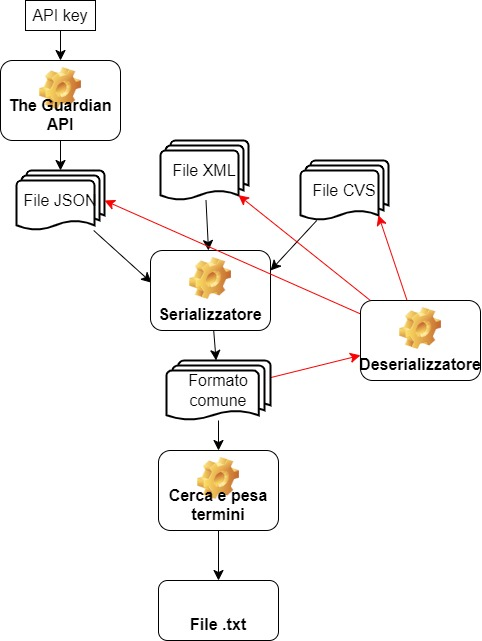
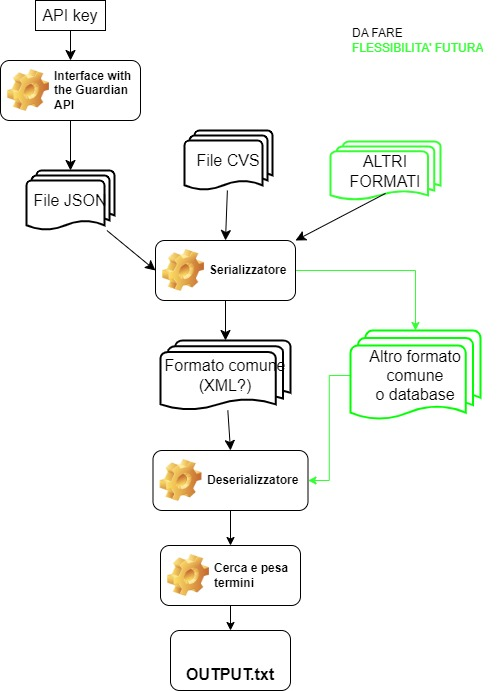
Aggiunta analisi dei requisiti

diff --git a/documentation/Requisiti.md b/documentation/Requisiti.md
@@ -1,0 +1,51 @@
+# ANALISI DEI REQUISITI
+**CONSEGNA: 18/07/2023**
+
+## Progetto vero e proprio
+
+### Casi d'uso
+- Un utente vuole fare solo il download: viene svuotato il database, seleziona che vuole 
+  estrarre dal TheGuardian, inserisce la sua API key, inserisce un insieme di parole 
+  chiave tra cui cercare, aspetta il download di 1000 articoli e la loro trasformazione
+  in un formato comune.
+- Un utente vuole fare solo l'estrazione dei termini: inserisce i suoi file 
+nel formato comune nel database e chiede di estrarre i 50 termini con piu' peso 
+e di salvarli in un file .txt di cui specifica il nome.
+- Un utente vuole fare entrambe le azioni: viene svuotato il database, seleziona che vuole
+  estrarre dal TheGuardian, inserisce la sua API key, inserisce un insieme di parole
+  chiave tra cui cercare, aspetta il download di 1000 articoli e la loro trasformazione
+  in un formato comune, chiede di estrarre i 50 termini con piu' peso
+  e di salvarli in un file .txt di cui specifica il nome.
+######
+Un termine è una parola che compare nel titolo + corpo dell'articolo, ed ha un peso pari
+al numero di articoli in cui appare. Se ci sono pareggi, viene usato l'ordine alfabetico.
+
+### Sorgenti
+- File CSV o JSON già scaricati
+- File del TheGuardianAPI (per vedere esempi usa Postman)
+- ALTRE SORGENTI
+
+### Database
+- File in formato comune (da decidere quale)
+- ALTRI DATABASE e ALTRI FORMATI COMUNI
+
+### Deserializzatore
+Deve poter supportare nuove strutture per memorizzare ed avere accesso ai termini più importanti
+
+## Tecnici
+* Linguaggio Java
+* Test con JUnit
+* Commentato con javadoc
+* Documentazione con gdoc o Maven site plugin
+* Deve essere eseguibile da riga di comando (magari con file bash)
+
+## Cosa consegnare
+* Documento dei requisiti (use case con UML + linguaggio naturale strutturato)
+* Domain model in UML con descrizione testuale
+* Design model in UML con descrizione testuale (modelli strutturali e dinamici)
+* Codeice
+* Test (con un report)
+* Manuale con:
+  * Panoramica del progetto
+  * Istruzioni su come installare ed eseguire
+  * Indicare le funzioni riusate da librerie esistenti, con versione delle librerie

diff --git a/README.md b/README.md
@@ -1,12 +1,9 @@
 # EIS-FINAL
 Repository of the final project of "Elementi di Ingegneria del Software"
 
+**IMPORTANTE**: la chiave è privata, non metterla su github
+
 ## Structure of the project
 * In src c'è il codice sorgente
 * In database ci sono i vari file json e csv (per ora ho messo solo un file json)
 * In documentation ci sono i vari documenti della documentazione. Ho aggiunto un UML per capire la struttura del progetto
-
-## Questions
-- Ci sono requisiti di tempo/prestazioni?
-- Dobbiamo documentare anche le librerie che usiamo
-- Magari far vedere un esempio di utilizzo
